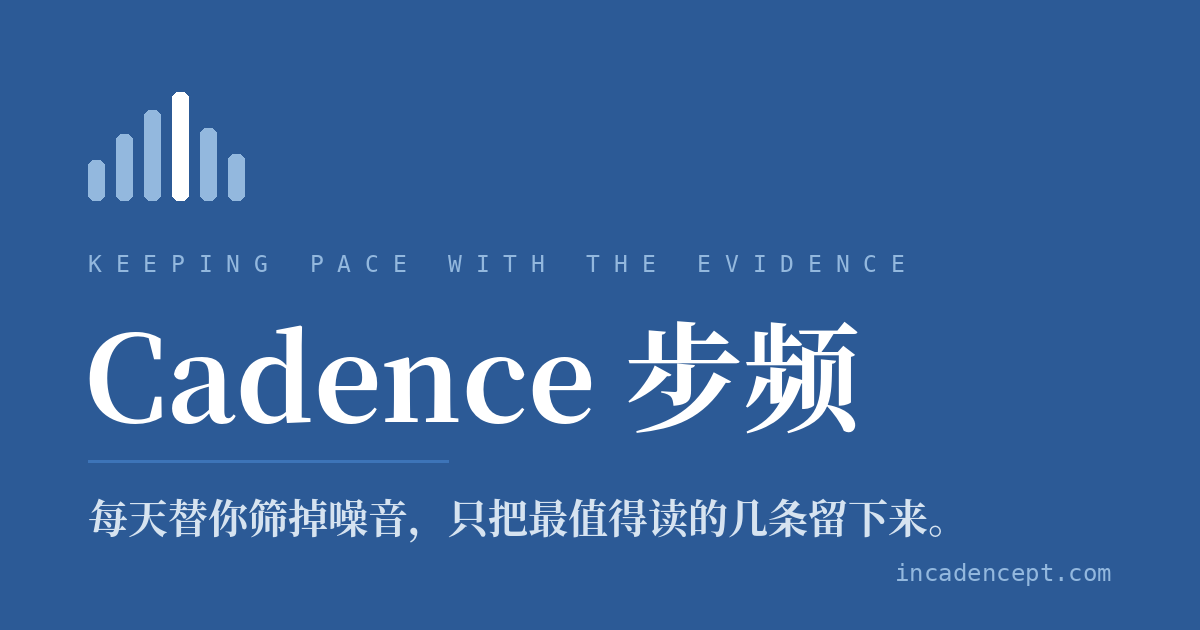
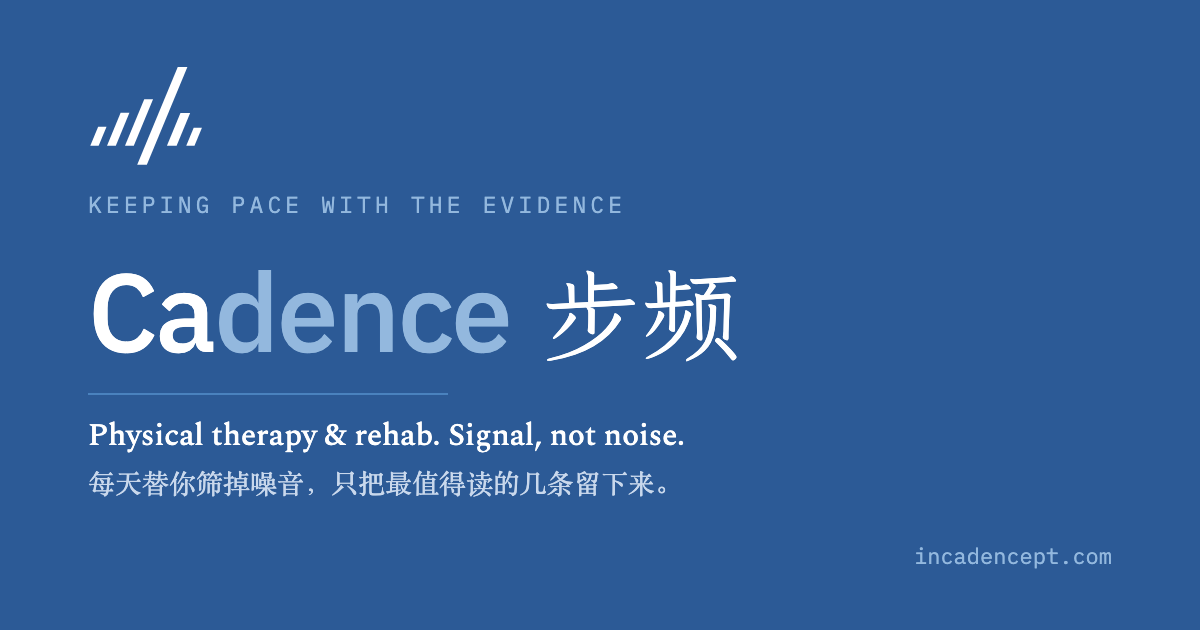
about: widen+center content (trim empty margins); finalize bilingual share card

diff --git a/og-card.html b/og-card.html
@@ -1,0 +1,58 @@
+<!doctype html>
+<html lang="zh-CN">
+<head>
+<meta charset="utf-8">
+<!-- Source template for og-card.png. Render to PNG with headless Chrome at
+     1200x630 (see command in chat). Real Cadence lockup: skewed equalizer mark
+     + IBM Plex "Cadence" + LXGW WenKai "步频". Tagline + PT positioning +
+     bilingual signal/noise line. -->
+<link rel="stylesheet" href="design-system/styles.css">
+<style>
+  * { margin: 0; box-sizing: border-box; }
+  html, body { width: 1200px; height: 630px; }
+  #card {
+    width: 1200px; height: 630px; background: #2C5A96;
+    padding: 64px 88px 60px; display: flex; flex-direction: column; justify-content: space-between;
+    font-family: 'IBM Plex Sans', sans-serif; overflow: hidden;
+  }
+  .mark { display: block; }
+  .eyebrow { font-family: 'IBM Plex Mono', monospace; font-size: 23px; letter-spacing: 0.18em; text-transform: uppercase; color: #93B8DE; }
+  .word { font-family: 'IBM Plex Sans', sans-serif; font-weight: 500; font-size: 110px; letter-spacing: -0.018em; line-height: 1; color: #FFFFFF; white-space: nowrap; }
+  .word .d { color: #93B8DE; }
+  .zh { font-family: 'LXGW WenKai Light', 'IBM Plex Sans', sans-serif; font-size: 100px; line-height: 1; color: #FFFFFF; white-space: nowrap; }
+  .rule { width: 360px; height: 2px; background: #4A82BE; margin: 24px 0 20px; }
+  .line-en { font-family: 'Spectral', Georgia, serif; font-weight: 500; font-size: 31px; line-height: 1.35; color: #FFFFFF; }
+  .line-zh { font-family: 'Spectral', 'Noto Serif SC', serif; font-size: 27px; line-height: 1.4; color: #C9D8EC; margin-top: 9px; }
+  .url { font-family: 'IBM Plex Mono', monospace; font-size: 22px; color: #93B8DE; text-align: right; }
+</style>
+</head>
+<body>
+<div id="card">
+  <div>
+    <svg class="mark" width="120" height="105" viewBox="446 107 580 508" xmlns="http://www.w3.org/2000/svg" aria-hidden="true">
+      <g transform="skewX(-22.490)" fill="#FFFFFF">
+        <rect x="664.6" y="410" width="40.5" height="92"/>
+        <rect x="745.6" y="343" width="42.5" height="159"/>
+        <rect x="832.5" y="277" width="42.6" height="225"/>
+        <rect x="930.0" y="121" width="46.7" height="474"/>
+        <rect x="1035.4" y="344" width="46.9" height="158"/>
+        <rect x="1128.9" y="415" width="39.9" height="87"/>
+      </g>
+    </svg>
+    <div class="eyebrow" style="margin-top:20px;">Keeping&nbsp;pace&nbsp;with&nbsp;the&nbsp;evidence</div>
+  </div>
+
+  <div>
+    <div style="display:flex; align-items:baseline; gap:30px;">
+      <span class="word">Ca<span class="d">dence</span></span>
+      <span class="zh">步频</span>
+    </div>
+    <div class="rule"></div>
+    <div class="line-en">Physical therapy &amp; rehab. Signal, not noise.</div>
+    <div class="line-zh">每天替你筛掉噪音，只把最值得读的几条留下来。</div>
+  </div>
+
+  <div class="url">incadencept.com</div>
+</div>
+</body>
+</html>

diff --git a/design-system/app/app.main.jsx b/design-system/app/app.main.jsx
@@ -435,7 +435,7 @@ function AboutView({ onView, mobile }) {
   ];
 
   return (
-    <div style={{ maxWidth: 720, display: 'flex', flexDirection: 'column', gap: mobile ? 36 : 44 }}>
+    <div style={{ maxWidth: 820, margin: '0 auto', display: 'flex', flexDirection: 'column', gap: mobile ? 36 : 44 }}>
       {/* Header unit — magazine-feature hero + stat row kept together */}
       <div style={{ display: 'flex', flexDirection: 'column', gap: 24 }}>
         {/* Hero — wordmark title, hairline rule, serif lead, supporting line */}
@@ -1221,7 +1221,7 @@ function FeedApp() {
       <div style={{ maxWidth: 'var(--content-max)', margin: '0 auto', display: 'flex', alignItems: 'flex-start', gap: isMobile ? 0 : 24, padding: isMobile ? '0 14px' : '0 24px' }}>
         {!isMobile && <NavRail view={view} onView={setView} />}
 
-        <main style={{ flex: 1, minWidth: 0, maxWidth: isMobile ? 'none' : 'var(--feed-column)', padding: isMobile ? '18px 0 calc(76px + env(safe-area-inset-bottom))' : '24px 0 64px' }}>
+        <main style={{ flex: 1, minWidth: 0, maxWidth: isMobile ? 'none' : (isAbout ? 'none' : 'var(--feed-column)'), padding: isMobile ? '18px 0 calc(76px + env(safe-area-inset-bottom))' : '24px 0 64px' }}>
           {/* Daily view has its own masthead — no page toolbar (Cindy 2026-06-13) */}
           {!isDaily && !isAbout && <FeedToolbar view={view} count={isSources || isFeedback ? null : stories.length} />}
 

diff --git a/design-system/tokens/spacing.css b/design-system/tokens/spacing.css
@@ -34,7 +34,7 @@
 
   /* Layout */
   --feed-column:  720px;   /* single reading column for the story feed */
-  --content-max:  1180px;  /* full app width incl. rails */
+  --content-max:  1280px;  /* full app width incl. rails */
   --rail-left:    232px;   /* nav rail */
   --rail-right:   300px;   /* context / digest rail */
   --header-height: 60px;